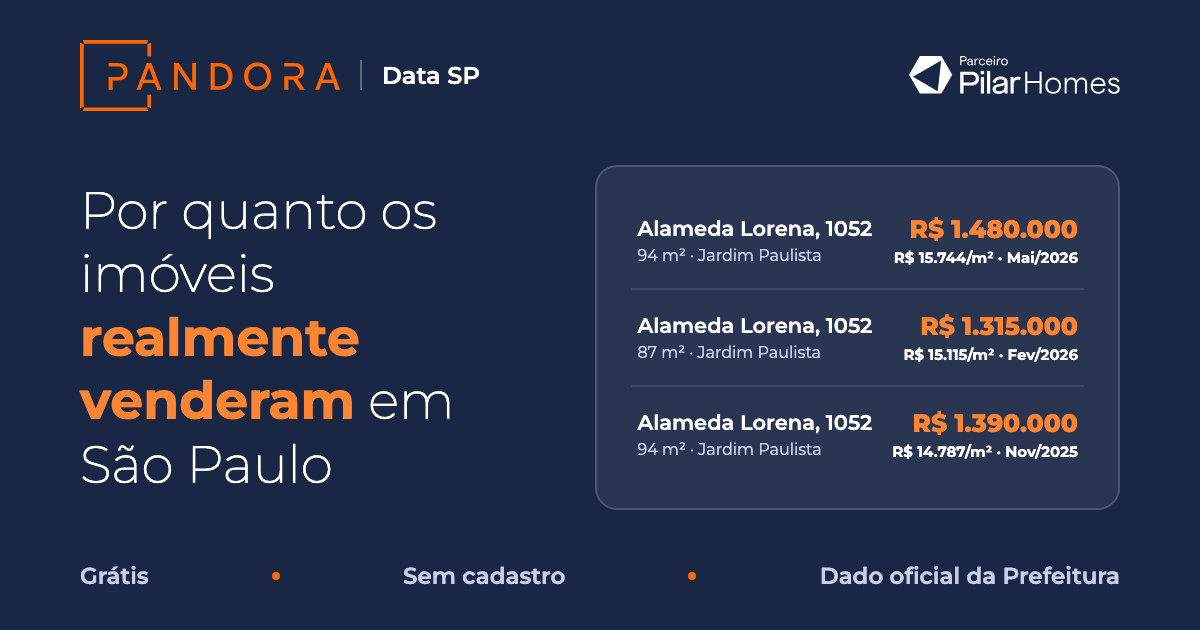
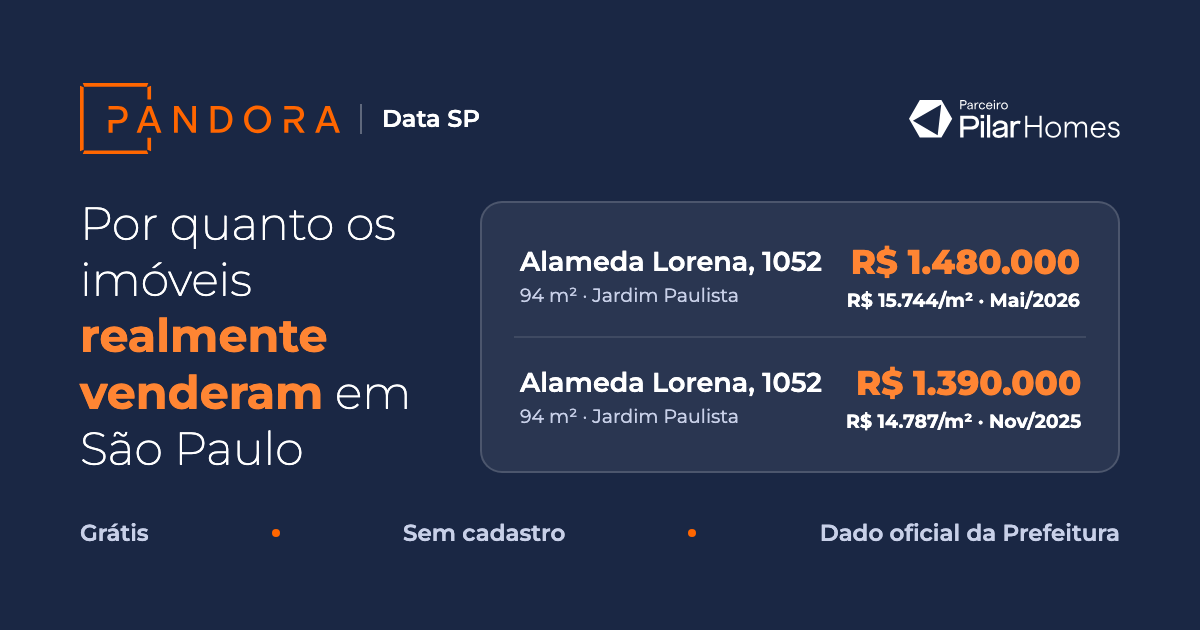
Atualização 16/07/2026 14:01

diff --git a/index.html b/index.html
@@ -7,13 +7,13 @@
 <meta name="apple-mobile-web-app-capable" content="yes">
 <meta name="apple-mobile-web-app-title" content="Pandora Data SP">
 <meta name="theme-color" content="#ff6600">
-<title>Pandora Data SP — o preço real de venda de imóveis em São Paulo</title>
+<title>Pandora Data SP — o preço real vendido dos imóveis em São Paulo</title>
 <meta name="description" content="Preço real de venda de imóveis em São Paulo, direto da Prefeitura (ITBI). Busque grátis, sem cadastro. Ferramenta da Pandora Homes.">
 <link rel="manifest" href="manifest.json">
 
 <meta property="og:type" content="website">
 <meta property="og:site_name" content="Pandora Data SP">
-<meta property="og:title" content="Pandora Data SP — o preço real de venda de imóveis em São Paulo">
+<meta property="og:title" content="Pandora Data SP — o preço real vendido dos imóveis em São Paulo">
 <meta property="og:description" content="Dados oficiais da Prefeitura de São Paulo (ITBI). Busque grátis, sem cadastro.">
 <meta property="og:url" content="https://vendidos.pandorahomes.com.br/">
 <meta property="og:image" content="https://accf81.github.io/vendidos-itbi/img/og-image.png">
@@ -172,7 +172,7 @@
   <section class="hero">
     <div class="wrap">
       <div class="hero-copy">
-        <h1 class="hero-title">O preço real de venda de imóveis em São Paulo — <strong>não uma estimativa.</strong></h1>
+        <h1 class="hero-title">O preço real vendido dos imóveis em São Paulo — <strong>não uma estimativa.</strong></h1>
         <p class="hero-sub">Dados oficiais da Prefeitura de São Paulo (ITBI): o valor que cada imóvel realmente foi vendido, não o valor anunciado.</p>
         <p class="hero-stat"><b>657 mil</b> transações registradas desde 2020 · atualizado todo mês <span class="hero-stat-source"><svg class="icon" viewBox="0 0 24 24"><path d="M9 12l2 2 4-4"/><circle cx="12" cy="12" r="9"/></svg>Dado oficial da Prefeitura de São Paulo</span></p>
       </div>
